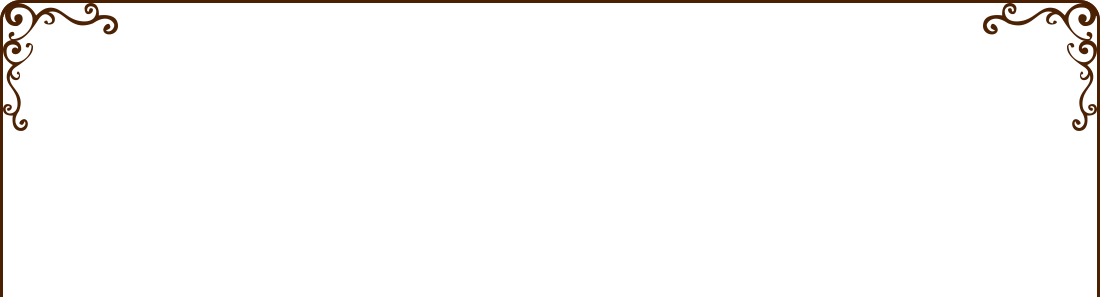
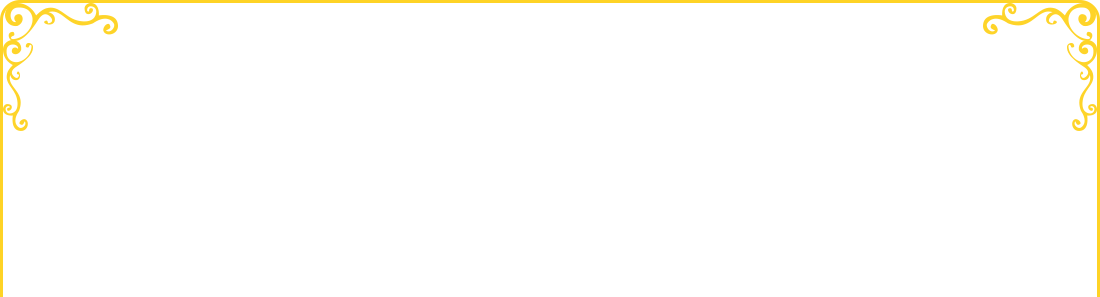
031C 11/16までの作業

Changed region(s): [[0.0, 0.0, 1.0, 1.0]]

diff --git a/031C/devStuff/src/config/_themeConfig.scss b/031C/devStuff/src/config/_themeConfig.scss
@@ -44,23 +44,23 @@ $g-hovercolor: #d089ea;
 
 // Start ぶち抜きカラー
 $headerFullWidthKeyColor: #a75f3f;
-$fullWidthBgColor: #f7f2f2;
-$fullWidthBgColor2: #f8faf1;
-$fullWidthBgColor3: #fef2e7;
-$fullWidthBgColor4: #b39e95;
+$fullWidthBgColor: #fffdef;
+$fullWidthBgColor2: #fff5e7;
+$fullWidthBgColor3: #faf2ff;
+$fullWidthBgColor4: #ffe789;
 $fullWidthBgColor5: #fff;
-$fullWidthBgColor6: #927668;
-$fullWidthBgColor7: #e5ddbf;
-$fullWidthBgColor8: #ecd6df;
-$fullWidthBgColor9: #dfe8bf;
-$fullWidthBgColor10: #fce0c4;
-$fullWidthBgColor11: #f9f9f9;
-$fullWidthBgColor12: #fffef4;
-$fullWidthBgColor13: #fff5f8;
-$fullWidthBgColor14: #e9e2d7;
-$fullWidthBgColor15: #f1eaea;
-$fullWidthBgColor16: #edf2db;
-$fullWidthBgColor17: #fffaf4;
+$fullWidthBgColor6: #ffeda6;
+$fullWidthBgColor7: #b3e5f8;
+$fullWidthBgColor8: #ffc5de;
+$fullWidthBgColor9: #ffd7a3;
+$fullWidthBgColor10: #c8da8b;
+$fullWidthBgColor11: #f7f5f1;
+$fullWidthBgColor12: #edfefd;
+$fullWidthBgColor13: #fff2e0;
+$fullWidthBgColor14: #f3f8e1;
+$fullWidthBgColor15: #fbe7f1;
+$fullWidthBgColor16: #f7fdff;
+$fullWidthBgColor17: #fff6fb;
 // End ぶち抜きカラー
 
 body.mod-body,

diff --git a/031C/devStuff/src/parts/_204_fullWidthFrame.scss b/031C/devStuff/src/parts/_204_fullWidthFrame.scss
@@ -269,6 +269,7 @@
   .t0-b-fullWidthFrame36::before {
     background-image: url("../imgs/common/fullWidthFrame/Background_dia_v35_36.png");
     background-repeat: repeat;
+
   }
 
   .t0-b-fullWidthFrame37::before,

diff --git a/031C/devStuff/src/parts/_164_headerMedia.scss b/031C/devStuff/src/parts/_164_headerMedia.scss
@@ -320,7 +320,7 @@
       border-radius: 9px;
       border-width: 2px;
       border-style: solid;
-      border-color: #4a1f02;
+      border-color: #fed327;
 
       &::before {
         position: absolute;
